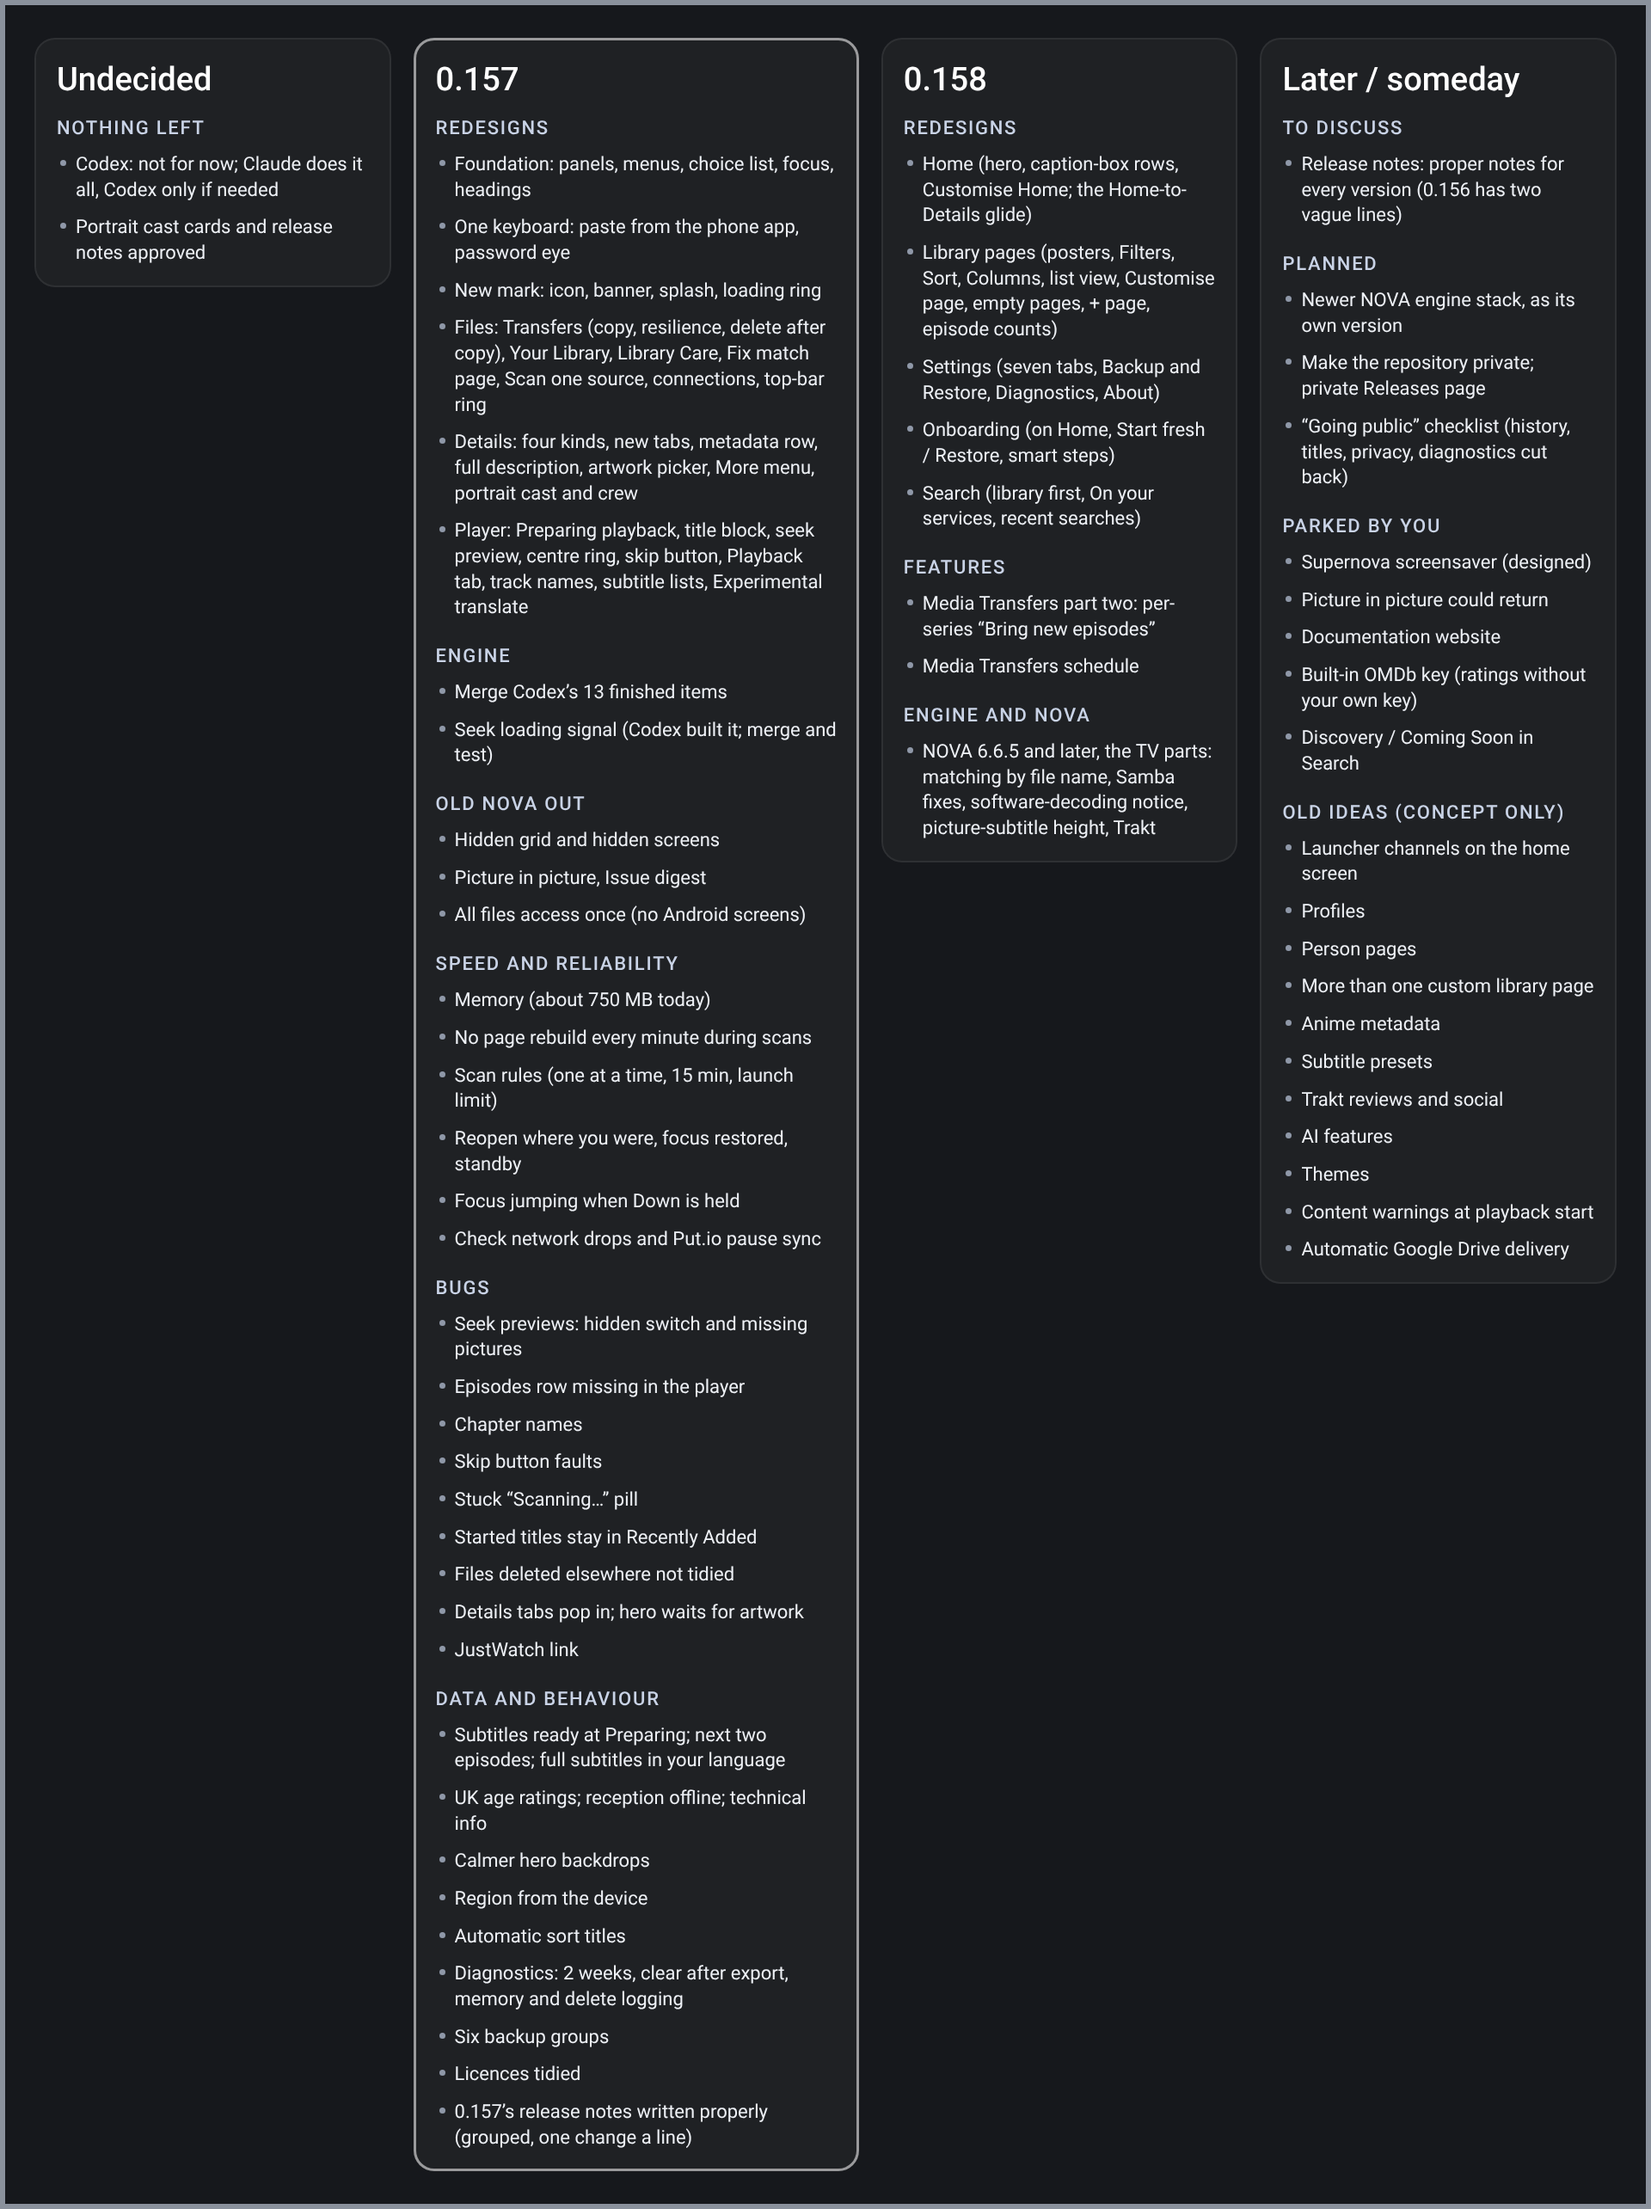
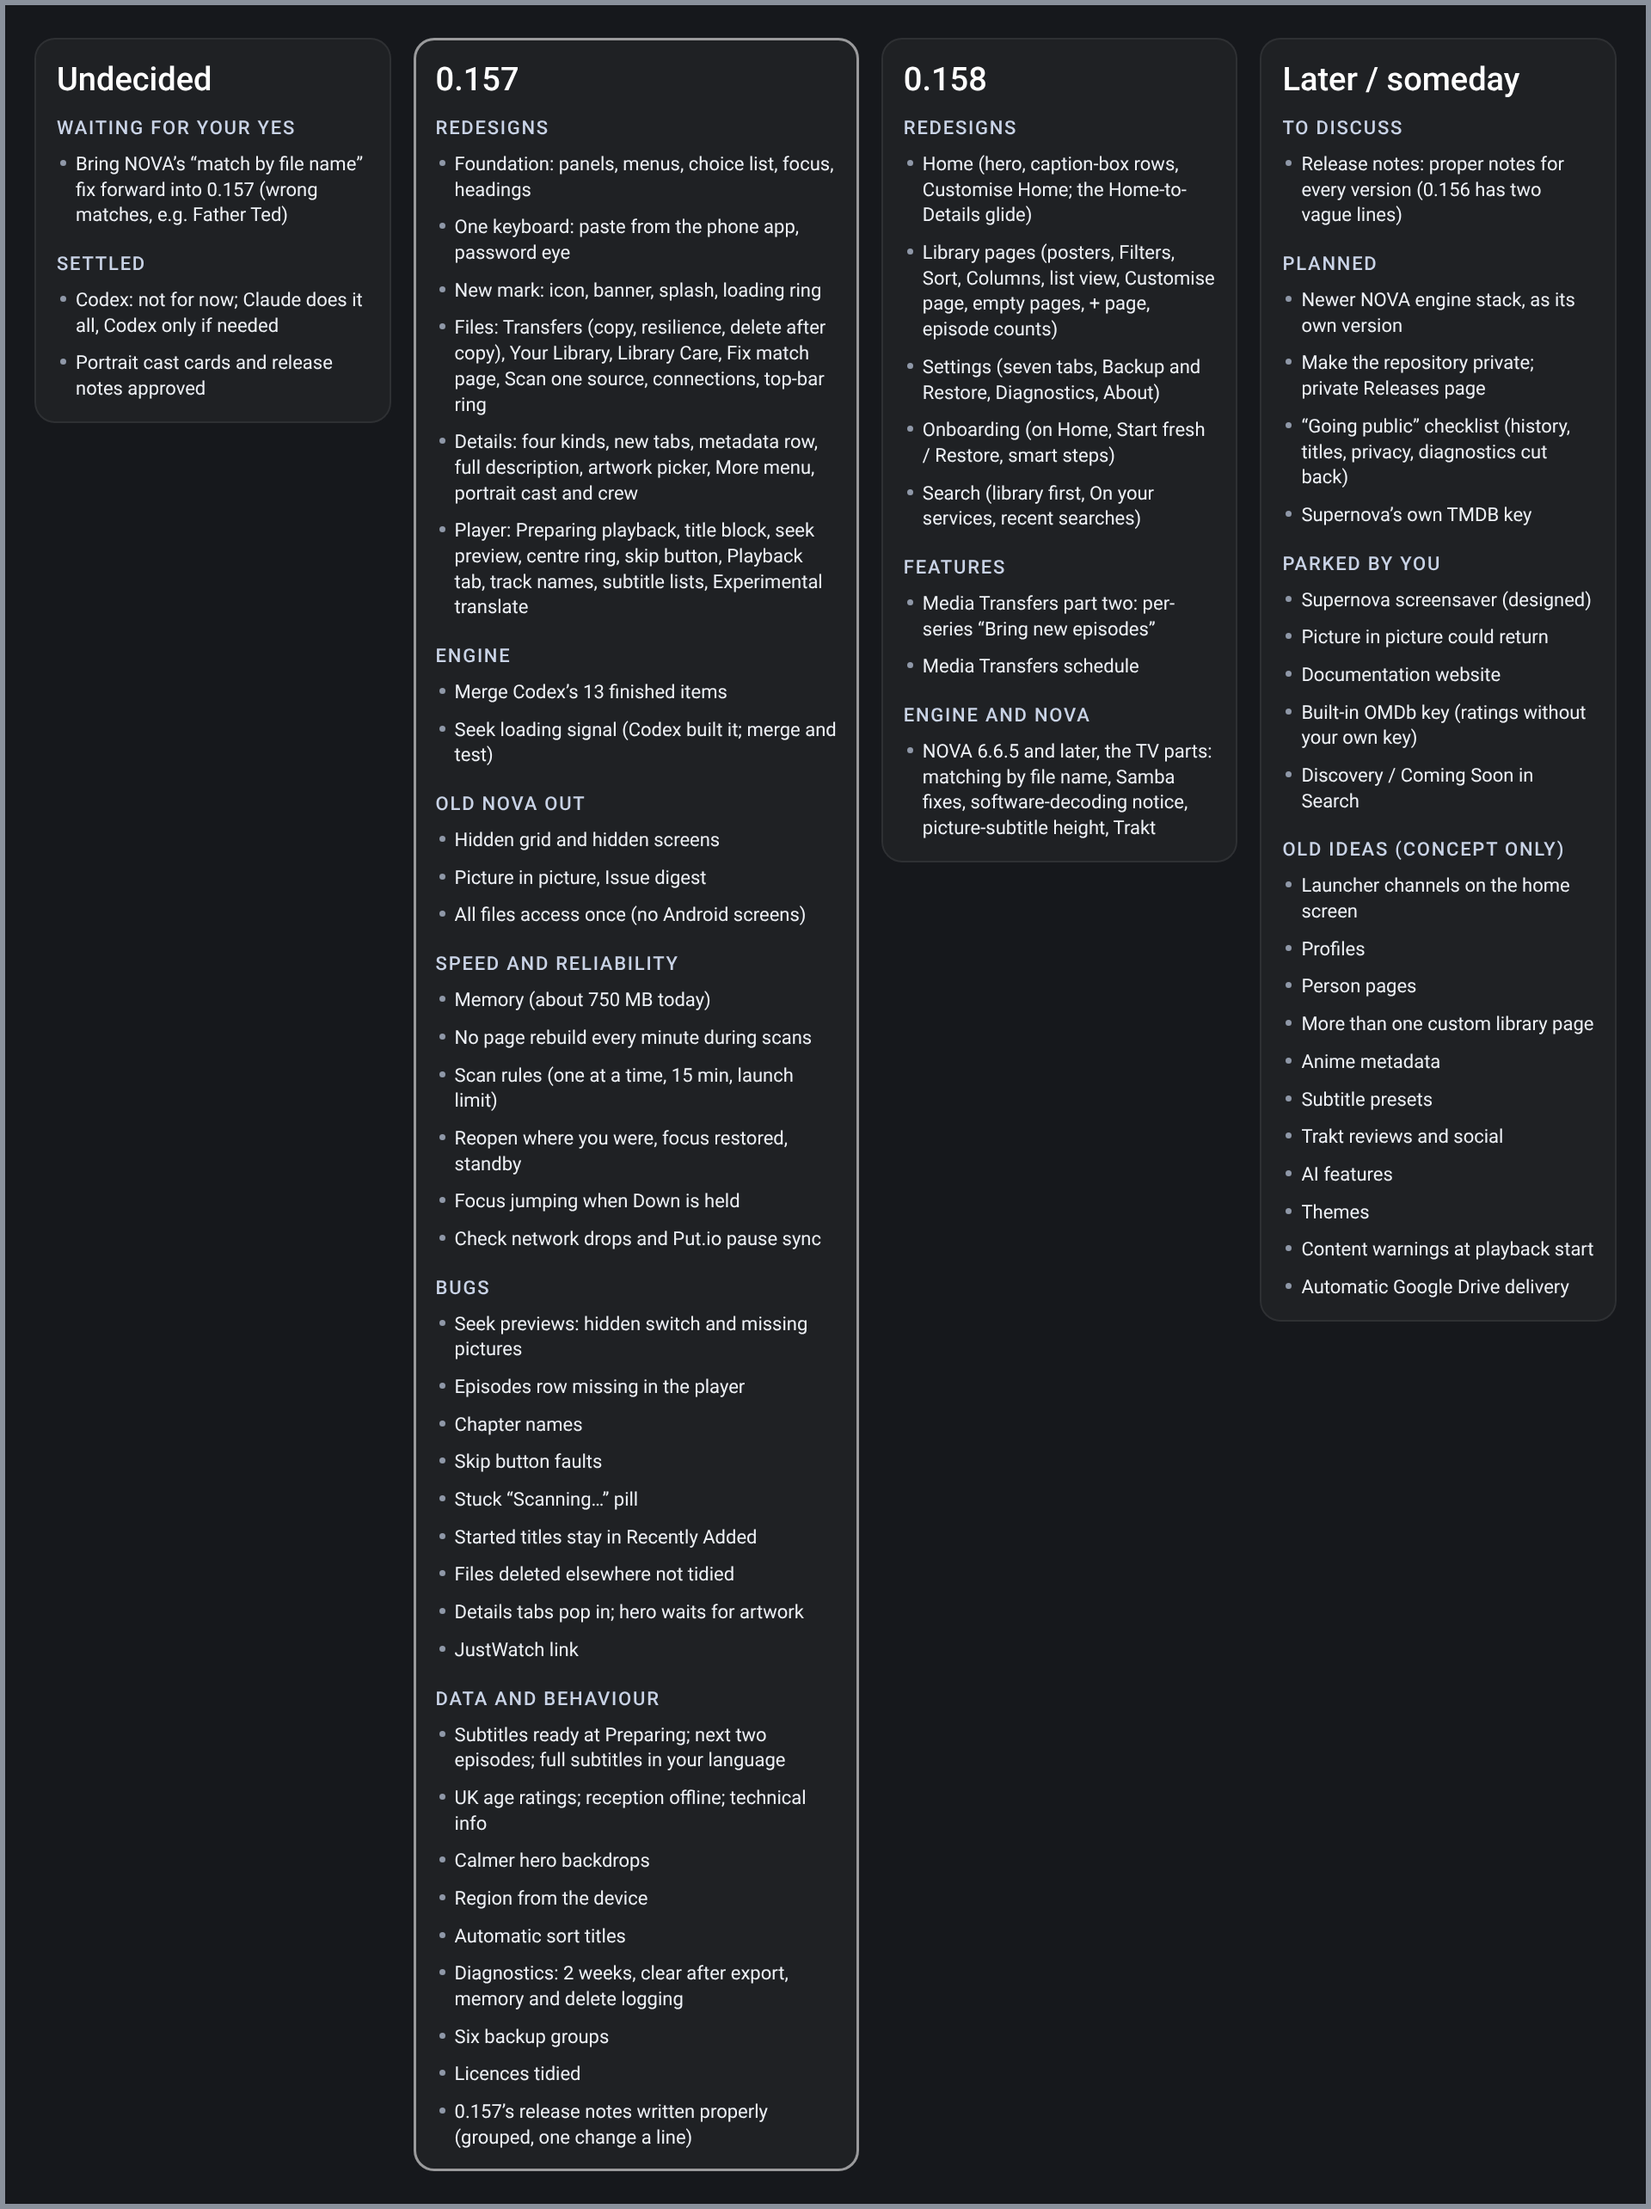
Owner notes: diagnostics received, wrong matches in NOVA too, own TMDB key later
Claude-Session: https://claude.ai/code/session_01FtDZqamY6pdaUKwc7fqgiA

Changed region(s): [[0.7812, 0.218, 0.9688, 0.5917], [0.0312, 0.0311, 0.2188, 0.1868]]

diff --git a/docs/0.157/board/render.js b/docs/0.157/board/render.js
@@ -9,7 +9,9 @@ const font = w => `@font-face{font-family:R;font-weight:${w};src:url(data:font/w
 
 const cols = [
   ['Undecided', [
-    ['Nothing left', ['Codex: not for now; Claude does it all, Codex only if needed', 'Portrait cast cards and release '
+    ['Waiting for your yes', ['Bring NOVA’s “match by file name” fix forward into 0.157 (wrong matches, e.g. '
+      + 'Father Ted)']],
+    ['Settled', ['Codex: not for now; Claude does it all, Codex only if needed', 'Portrait cast cards and release '
       + 'notes approved']],
   ]],
   ['0.157', [
@@ -44,7 +46,7 @@ const cols = [
   ['Later / someday', [
     ['To discuss', ['Release notes: proper notes for every version (0.156 has two vague lines)']],
     ['Planned', ['Newer NOVA engine stack, as its own version', 'Make the repository private; private Releases page',
-      '“Going public” checklist (history, titles, privacy, diagnostics cut back)']],
+      '“Going public” checklist (history, titles, privacy, diagnostics cut back)', 'Supernova’s own TMDB key']],
     ['Parked by you', ['Supernova screensaver (designed)', 'Picture in picture could return', 'Documentation website',
       'Built-in OMDb key (ratings without your own key)', 'Discovery / Coming Soon in Search']],
     ['Old ideas (concept only)', ['Launcher channels on the home screen', 'Profiles', 'Person pages',

diff --git a/docs/0.157/OWNER_NOTES.md b/docs/0.157/OWNER_NOTES.md
@@ -1291,3 +1291,17 @@ a TV (our fork is heavily changed, so each is carried across by hand, not merged
   text; pick the best by default; keep variety; never replace a backdrop the owner chose; hero and rows may use
   different artwork; where nothing suits, a gentle shade behind the text. First, simple version in 0.157 (decided
   12 Nov); applies to the Details hero now and Home's in 0.158.
+
+## 45. Diagnostics 14 Nov received; wrong matches seen in NOVA too; TMDB key (owner, 14 Nov 2026)
+- **Diagnostics report** exported 14 Nov 23:49 local time received; kept out of the repository (personal data); read
+  for faults when 0.157 coding starts.
+- **Wrong matches happen in NOVA as well**, so the cause is in the shared scanning/matching code, not Supernova's
+  screens. Examples (owner): a series folder and file named "Phoenix Rising (2022)" matched to a 2007 title; The O.C.
+  S2 E6 matched to a 2009 documentary; several around Father Ted. Nothing to investigate yet (owner).
+- **Claude:** NOVA 6.6.5's MediaLib change "scraper: prefer file name/path over metadata title" (9 Nov) fits these
+  exactly: when a video file carries its own title inside it, the scraper trusted that over the folder and file name.
+  Proposed: bring just that matching fix into 0.157 (small, and it is the biggest cause of wrong data), then re-check
+  matches on Library Care without touching manual fixes. The rest of NOVA 6.6.5+ stays in 0.158. Awaiting the owner.
+- **Own TMDB key (later):** Supernova uses the TMDB key built into NOVA. TMDB's terms tie a key to one application, so
+  before Supernova is shared or made public it needs its own key (and TMDB's required credit, already in About ›
+  Credits). Added to REVISIT_LATER and the roadmap's Later column.

diff --git a/docs/REVISIT_LATER.md b/docs/REVISIT_LATER.md
@@ -9,6 +9,10 @@ Items already built or scheduled are left out (see the bottom of this file).
 - 0.156's notes are two vague lines. Rethink how notes are written and shown, and whether to rewrite older
   versions' notes from their records. 0.157's own notes will already be written properly.
 
+## Supernova's own TMDB key (owner, 14 Nov 2026)
+- Supernova still uses NOVA's built-in TMDB key. TMDB keys belong to one application, so Supernova needs its own
+  before it is shared or public. Part of the "going public" checklist.
+
 ## Ratings without a personal OMDb key — added 4 Nov 2026
 - **Decision (owner):** do not build an OMDb key into the app for now. Reception's IMDb, Rotten Tomatoes and
   Metacritic scores keep using the key typed into Settings (`omdb_api_key`, `metadata/OmdbSupplement.java`,
